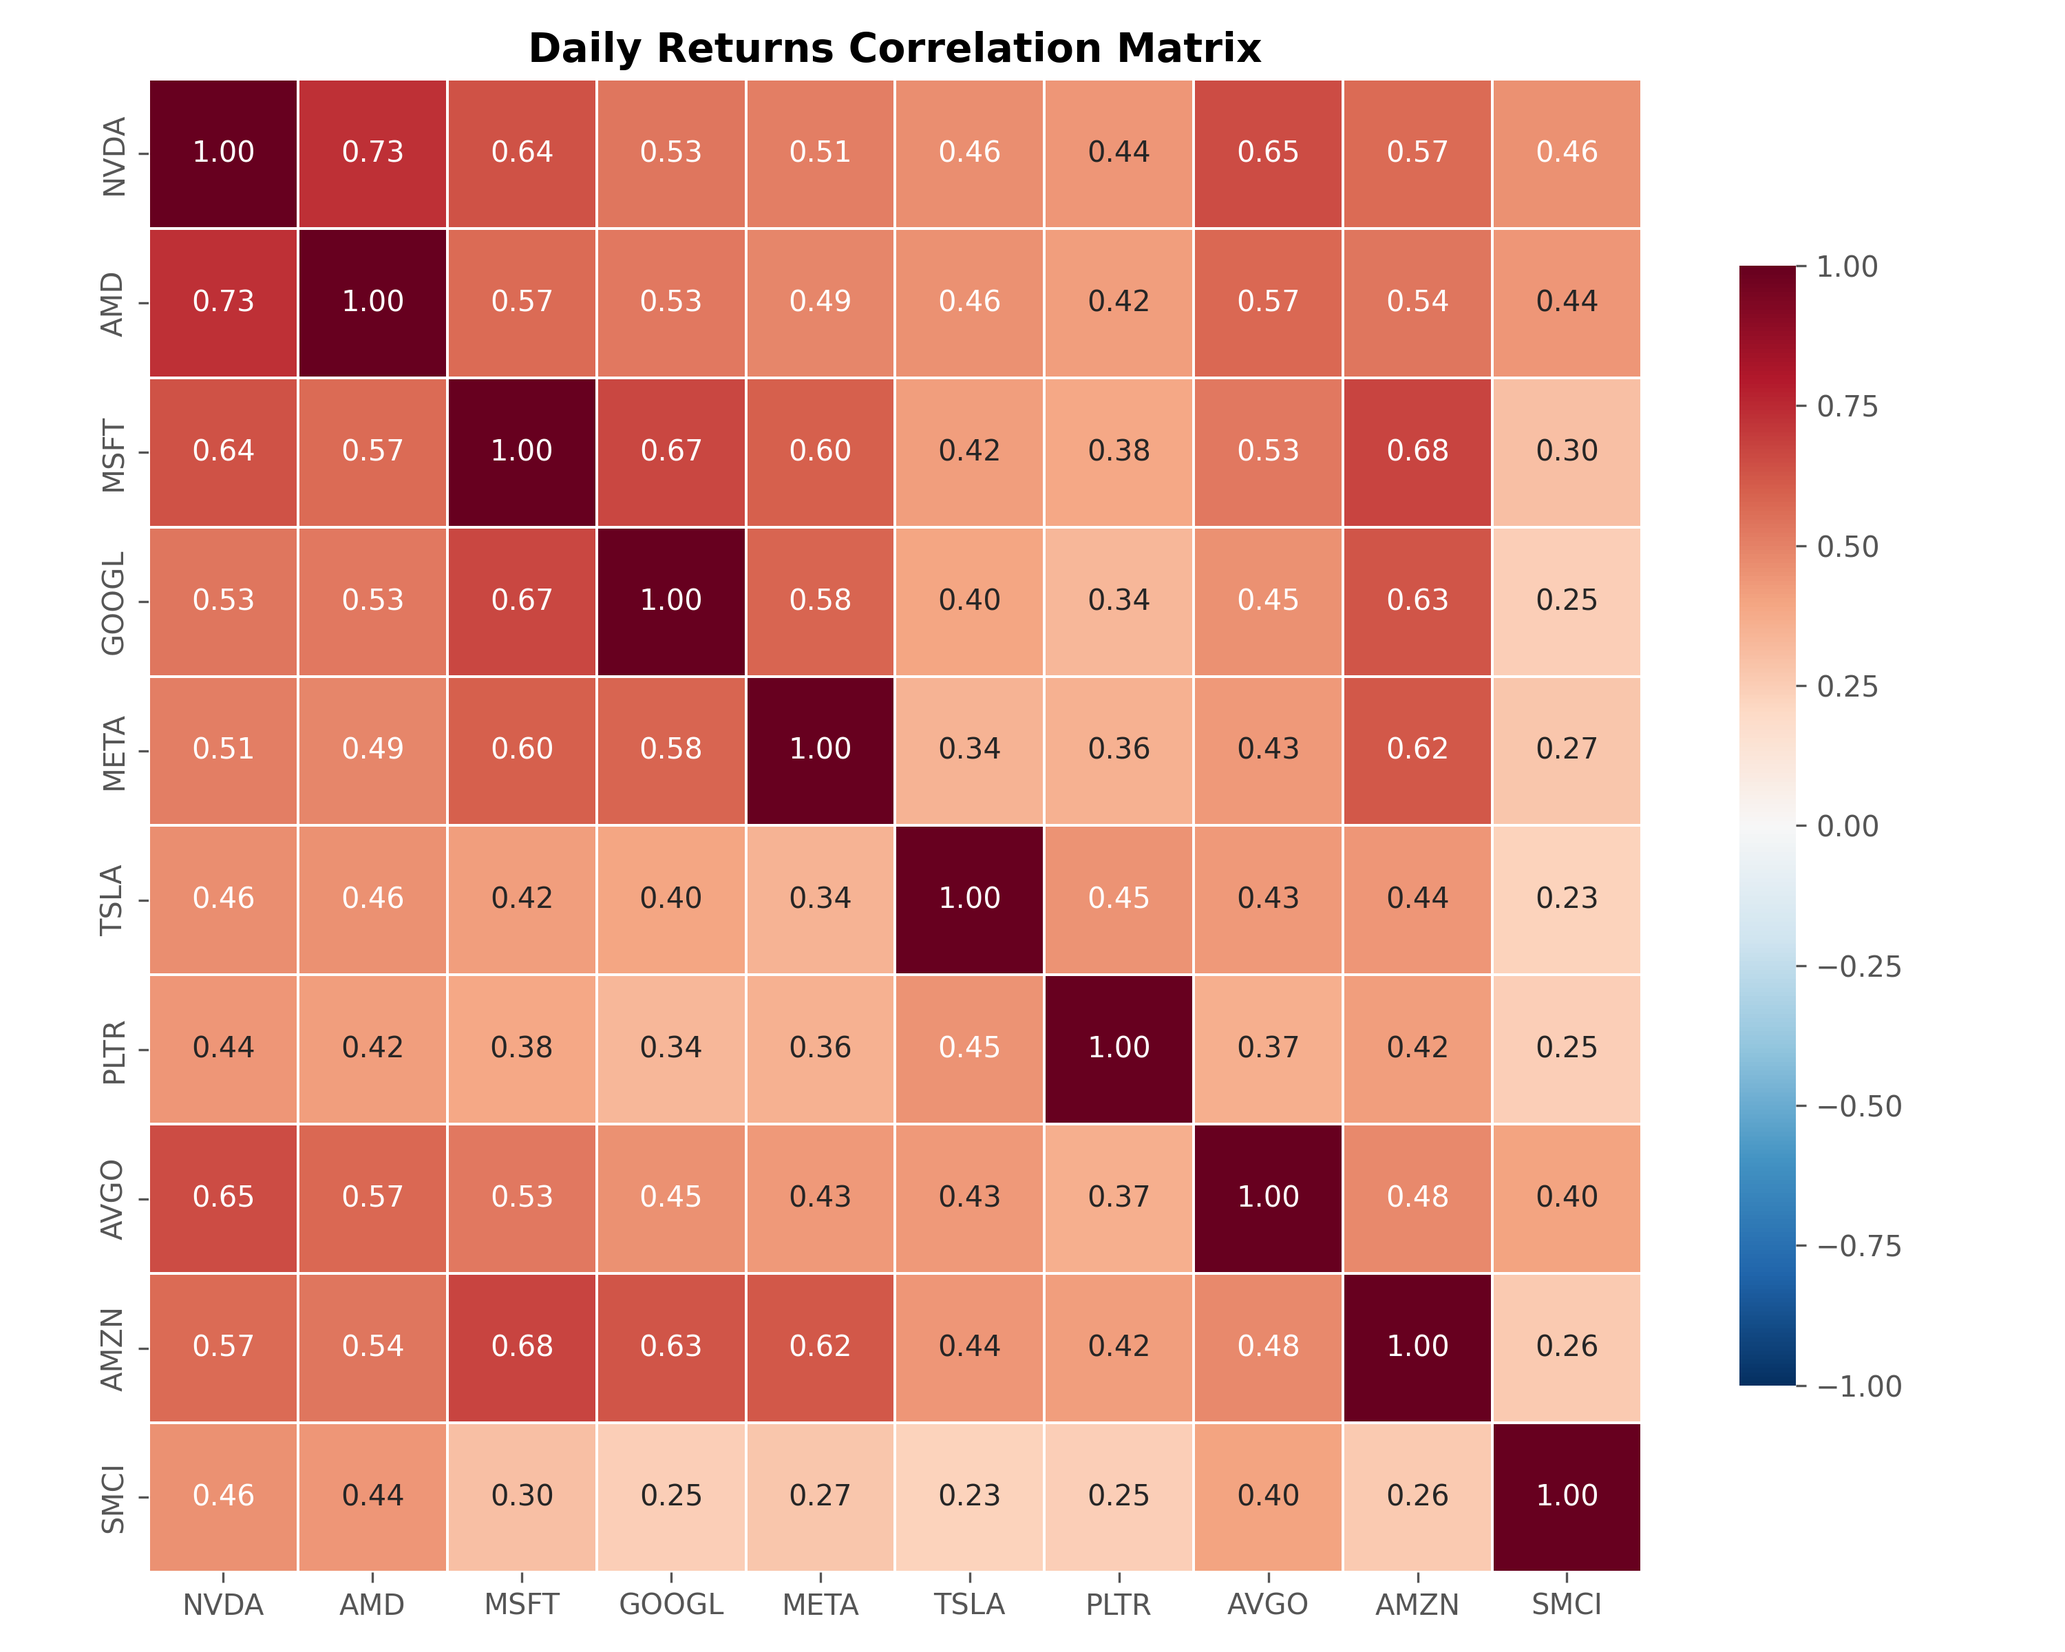
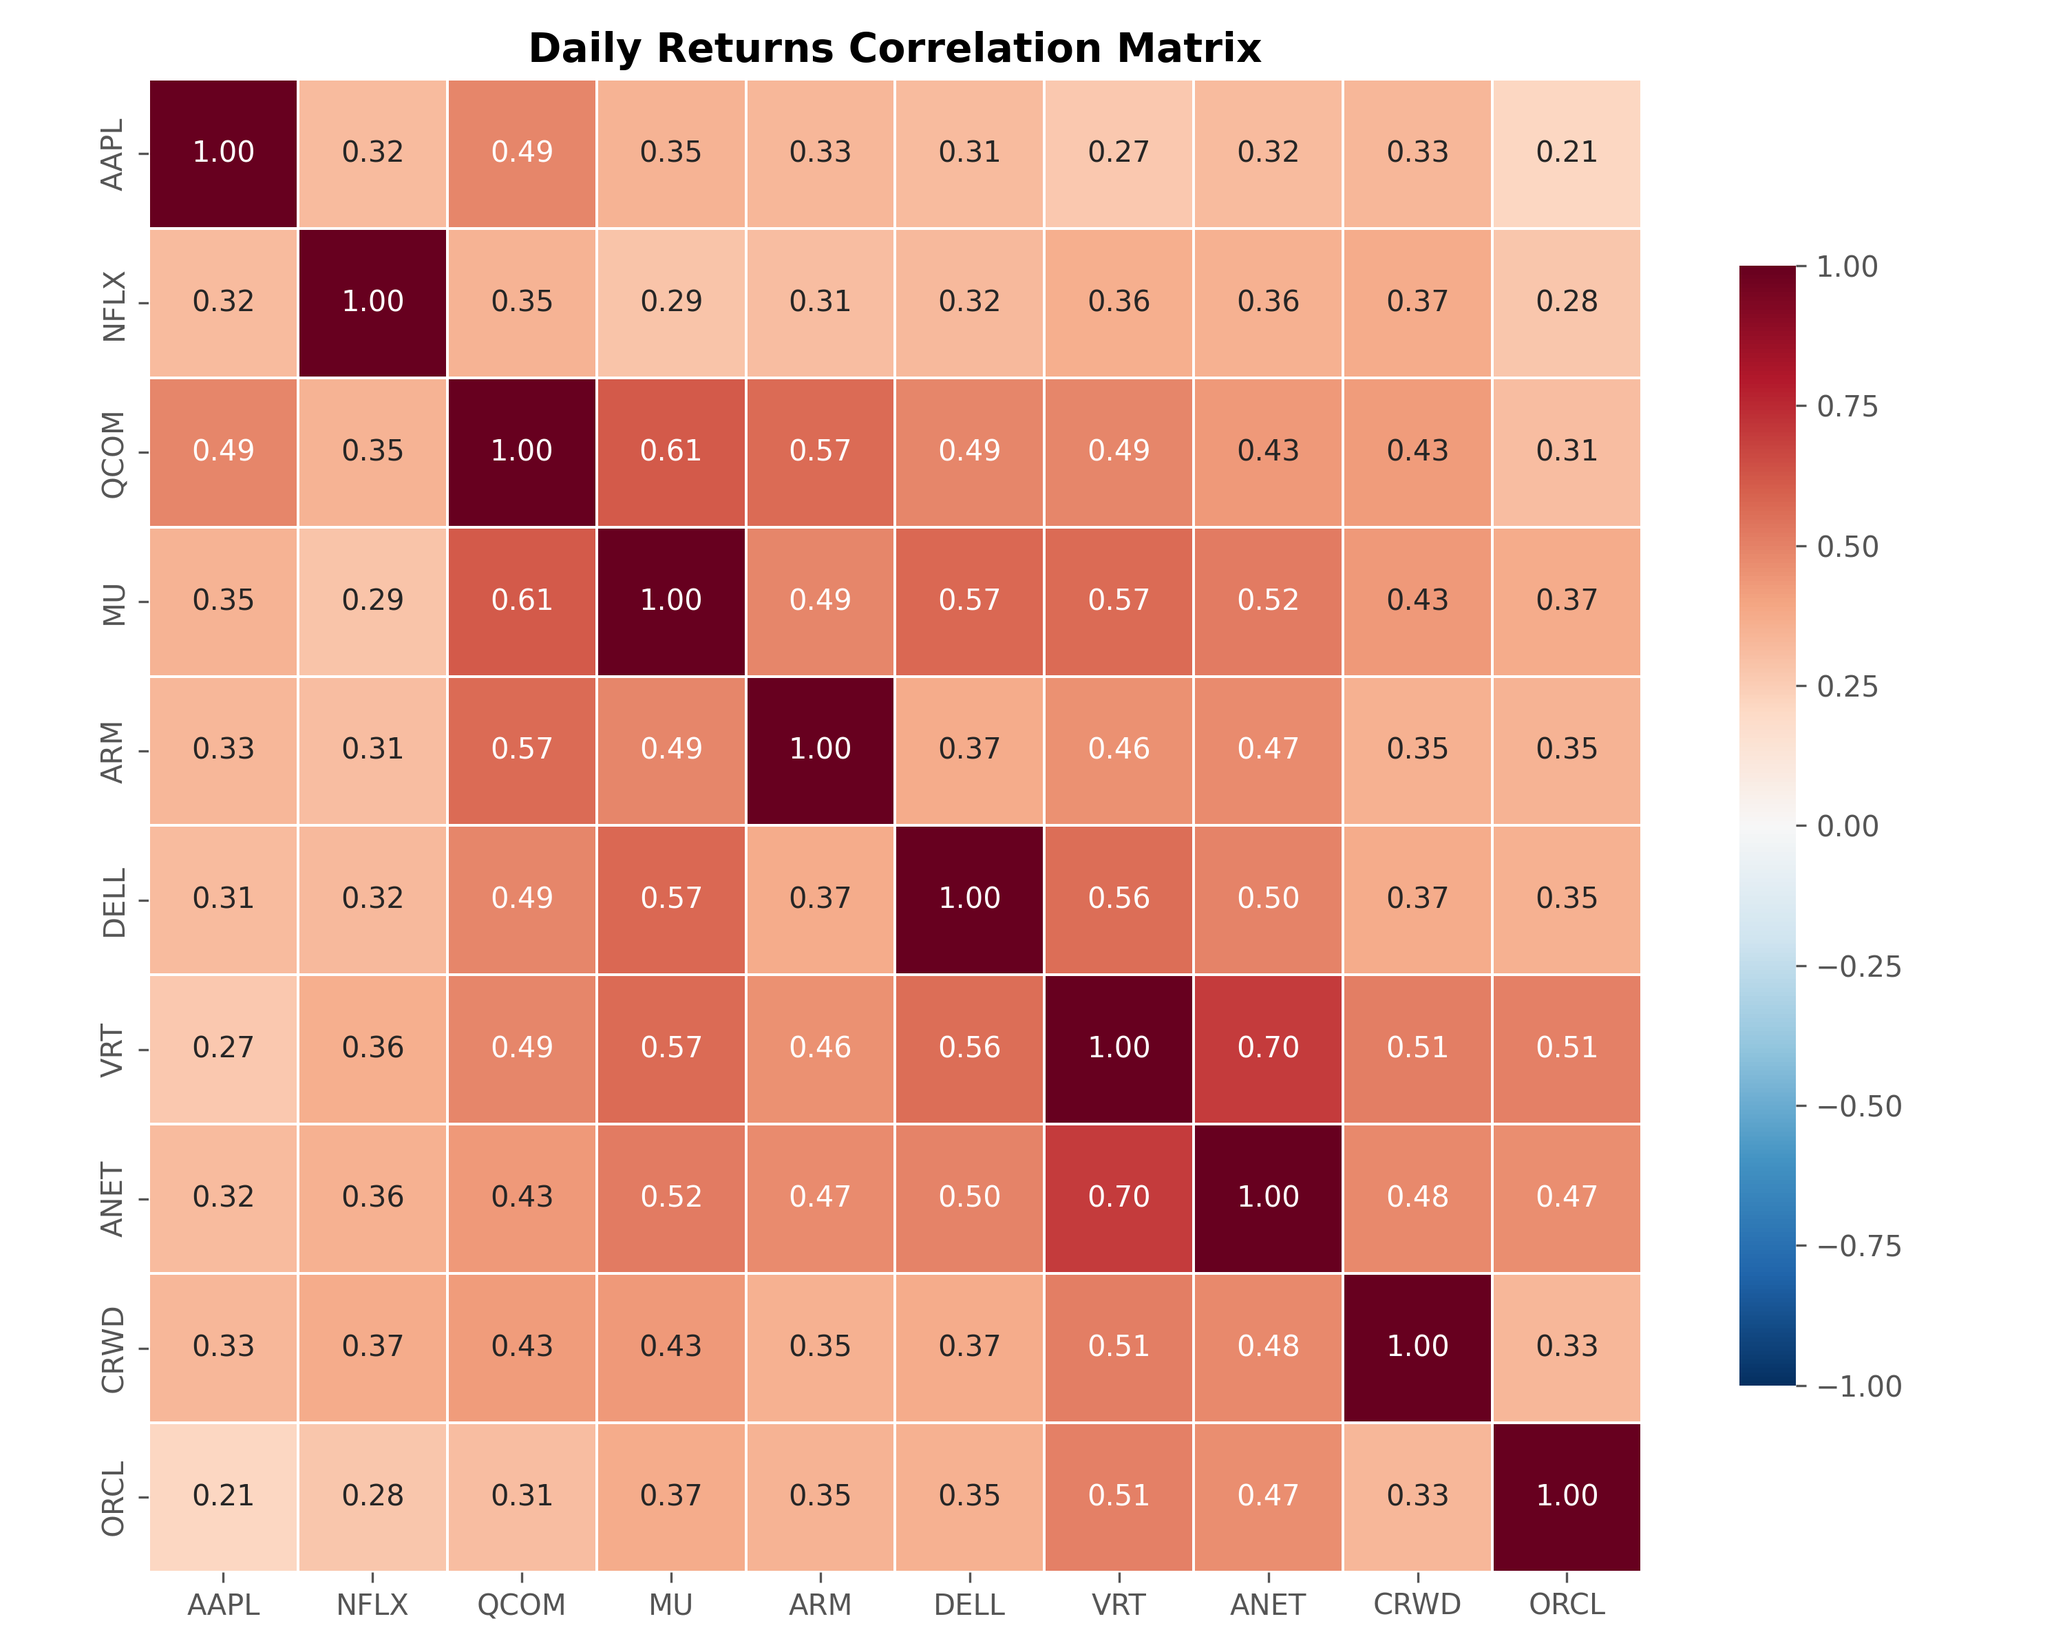
add files

diff --git a/MIDTERM_PROJECTS/strategy/backtest.py b/MIDTERM_PROJECTS/strategy/backtest.py
@@ -4,77 +4,91 @@ from MIDTERM_PROJECTS.strategy.signals import (check_entry_signal,check_exit_sig
 from MIDTERM_PROJECTS.strategy.indicators import add_indicators
 
 
-def run_single_backtest(df, fund=1000, rsi_buy=40, trailing_stop=0.10): # instead stop_loss = 0.07
+def run_single_backtest(df, fund=1000, rsi_buy=40, rsi_sell=75, trailing_stop=0.10):
     """
-    Simulates trading on a single asset.
-    Updated to support Hyperparameter Tuning via arguments.
+    Simulates the trading strategy on a single asset using Trailing Stop logic.
 
     Args:
-        df (pd.DataFrame): Data with indicators.
+        df (pd.DataFrame): Historical data.
         fund (float): Initial capital.
-        rsi_buy (int): RSI threshold for entry (Default: 40).
-        trailing_stop (float) : (Default: 10).
+        rsi_buy (int): RSI threshold for entry (Optimization parameter).
+        trailing_stop (float): Trailing stop percentage (Optimization parameter).
+
+    Returns:
+        pd.Series: Daily equity values over time.
     """
+    # 1. Calculate Technical Indicators
     df = add_indicators(df)
+
+    # 2. Initialize Portfolio State
     cash = fund
     stock = 0
-    highest_price = 0  # Track peak price
+    highest_price = 0  # Tracks the peak price for Trailing Stop
     equity = []
 
+    # 3. Simulation Loop
     for index, row in df.iterrows():
         price = row['close']
         ema = row.get('EMA_200')
         rsi = row.get('RSI')
 
-        # BUY Logic
-        if stock == 0 and not pd.isna(ema) and not pd.isna(rsi):
-            if price > ema and rsi < rsi_buy:
-                stock = cash / price
+        # --- ENTRY LOGIC (BUY) ---
+        if stock == 0:
+            if check_entry_signal(price, ema, rsi, rsi_threshold=rsi_buy):
+                stock = cash / price  # Buy All-in
                 cash = 0
-                highest_price = price  # Initialize peak
+                highest_price = price  # Initialize peak price at entry
 
-        # SELL Logic (Trailing Stop)
+        # --- EXIT LOGIC (SELL) ---
         elif stock > 0:
+            # Update the highest price seen during the trade
             if price > highest_price:
-                highest_price = price  # Update peak
+                highest_price = price
 
-            stop_price = highest_price * (1 - trailing_stop)
-
-            if (rsi > 75) or (price < stop_price):
-                cash = stock * price
+            # Check exit conditions (Take Profit or Trailing Stop)
+            if check_exit_signal(price, rsi, highest_price,
+                                 trailing_stop_pct=trailing_stop,
+                                 rsi_sell_threshold=rsi_sell):
+                cash = stock * price  # Liquidate position
                 stock = 0
-                highest_price = 0
+                highest_price = 0  # Reset peak
 
-        equity.append(cash + (stock * price))
+        # --- MARK TO MARKET ---
+        # Calculate total asset value for the day
+        current_equity = cash + (stock * price)
+        equity.append(current_equity)
 
+    # Return the Equity Curve aligned with dates
     return pd.Series(equity, index=df.index[-len(equity):])
 
 
 def run_portfolio_backtest(data_dict, capital_per_stock=1000):
     """
-    Runs the backtest simulation for the entire portfolio.
+    Executes the backtest across the entire portfolio.
+
+    Args:
+        data_dict (dict): Dictionary of DataFrames {Ticker: Data}.
+        capital_per_stock (float): Capital allocated to each asset.
 
     Returns:
-        pd.DataFrame: Contains equity curves for individual assets and the 'TOTAL' portfolio.
+        pd.DataFrame: Equity curves for individual assets and the 'TOTAL' portfolio.
     """
     portfolio_equity = pd.DataFrame()
-
-    print(f"-> Starting simulation on {len(data_dict)} assets...")
+    print(f">> Executing Strategy (RSI < 40, Trailing Stop Mode)...")
 
     for ticker, df in data_dict.items():
         if df.empty: continue
+
         try:
-            # Run independent simulation for each stock
-            equity = run_single_backtest(df, capital_per_stock)
-            portfolio_equity[ticker] = equity
+            # Run simulation for the specific ticker
+            # Note: You can pass optimized parameters here if needed
+            result = run_single_backtest(df, fund=capital_per_stock)
+            portfolio_equity[ticker] = result
         except Exception as e:
-            print(f"Simulation failed for {ticker}: {e}")
+            print(f"Error backtesting {ticker}: {e}")
 
-    # Handle missing data (Forward Fill) to ensure summation works
-    portfolio_equity = portfolio_equity.fillna(capital_per_stock)
-
-    # Calculate Total Portfolio Value
+    # Handle missing data (Forward Fill) and sum up the portfolio
+    portfolio_equity = portfolio_equity.ffill().fillna(capital_per_stock)
     portfolio_equity['TOTAL'] = portfolio_equity.sum(axis=1)
 
-    print("-> Simulation completed.")
     return portfolio_equity

diff --git a/MIDTERM_PROJECTS/optimizer/optimization.py b/MIDTERM_PROJECTS/optimizer/optimization.py
@@ -16,63 +16,58 @@ def calculate_sharpe(equity_series):
     return (ret.mean() / ret.std()) * np.sqrt(252)
 
 
+
 def run_grid_search(data_dict):
-    """
-    Grid Search for Trailing Stop Optimization.
-    """
-    print("\n" + "=" * 60)
-    print("GRID SEARCH: TRAILING STOP OPTIMIZATION (80/20 SPLIT)")
-    print("=" * 60)
+    print("\n" + "=" * 80)
+    print("FULL GRID SEARCH: RSI BUY/SELL & TRAILING STOP")
+    print("=" * 80)
 
-    # Grid Parameters
-    rsi_options = [30, 35, 40]
-    trail_options = [0.05, 0.08, 0.10, 0.12, 0.15]  # 5% to 15%
+    rsi_buy_options = [30, 35, 40]
+    rsi_sell_options = [70, 75, 80]
+    trail_options = [0.10, 0.12, 0.15]
 
-    print(f"{'RSI':<5} | {'TRAIL':<6} | {'TRAIN SHARPE':<12} | {'TEST SHARPE':<12} | {'STATUS'}")
-    print("-" * 60)
+    print(f"{'BUY':<4} | {'SELL':<4} | {'TRAIL':<5} | {'TRAIN SHARPE':<12} | {'TEST SHARPE':<12} | {'STATUS'}")
+    print("-" * 70)
 
     best_score = -999
     best_params = None
 
-    for rsi in rsi_options:
-        for trail in trail_options:
-            train_scores, test_scores = [], []
+    for r_buy in rsi_buy_options:
+        for r_sell in rsi_sell_options:
+            for trail in trail_options:
 
-            for ticker, df in data_dict.items():
-                if len(df) < 100: continue
-                train, test = split_data(df)
+                if r_buy >= r_sell: continue
 
-                # Run Backtest
-                res_train = run_single_backtest(train, rsi_buy=rsi, trailing_stop=trail)
-                res_test = run_single_backtest(test, rsi_buy=rsi, trailing_stop=trail)
+                train_scores, test_scores = [], []
 
-                train_scores.append(calculate_sharpe(res_train))
-                test_scores.append(calculate_sharpe(res_test))
+                for ticker, df in data_dict.items():
+                    if len(df) < 100: continue
+                    train, test = split_data(df)
 
-            avg_train = np.mean(train_scores) if train_scores else 0
-            avg_test = np.mean(test_scores) if test_scores else 0
+                    res_train = run_single_backtest(train, rsi_buy=r_buy, rsi_sell=r_sell, trailing_stop=trail)
+                    res_test = run_single_backtest(test, rsi_buy=r_buy, rsi_sell=r_sell, trailing_stop=trail)
 
-            # Robustness Check
-            status = "OK"
-            if avg_train > 1.5 and avg_test < 0.5:
-                status = "OVERFIT"
-            elif avg_test < 0:
-                status = "LOSS"
+                    train_scores.append(calculate_sharpe(res_train))
+                    test_scores.append(calculate_sharpe(res_test))
 
-            print(f"{rsi:<5} | {trail * 100:<4.0f}% | {avg_train:<12.2f} | {avg_test:<12.2f} | {status}")
+                avg_train = np.mean(train_scores) if train_scores else 0
+                avg_test = np.mean(test_scores) if test_scores else 0
 
-            if avg_train > best_score and avg_test > 0.5:
-                best_score = avg_train
-                best_params = (rsi, trail)
+                status = "OVERFIT" if (avg_train > 1.2 and avg_test > 0.5) else "OK"
+                print(
+                    f"{r_buy:<4} | {r_sell:<4} | {trail * 100:<3.0f}%  | {avg_train:<12.2f} | {avg_test:<12.2f} | {status}")
 
-    print("-" * 60)
+                if avg_train > best_score and avg_test > 0.5:
+                    best_score = avg_train
+                    best_params = (r_buy, r_sell, trail)
+
+    print("-" * 70)
     if best_params:
-        print(f"RECOMMENDED: RSI={best_params[0]}, TRAILING_STOP={best_params[1]}")
-    else:
-        print("RECOMMENDED: Default Settings (No robust params found).")
+        print(f"RECOMMENDED: RSI_BUY={best_params[0]}, RSI_SELL={best_params[1]}, TRAILING={best_params[2]}")
 
 from MIDTERM_PROJECTS.data.clean_data import clean_data
 
+# TICKERS = ['AAPL', 'NFLX', 'QCOM', 'MU', 'ARM', 'DELL', 'VRT', 'ANET', 'CRWD', 'ORCL']
 TICKERS = ['NVDA', 'AMD', 'MSFT', 'GOOGL', 'META', 'TSLA', 'PLTR', 'AVGO', 'AMZN', 'SMCI']
 START = '2015-01-01'
 END = '2025-10-01'

diff --git a/MIDTERM_PROJECTS/strategy/signals.py b/MIDTERM_PROJECTS/strategy/signals.py
@@ -1,47 +1,55 @@
-# --- STRATEGY CONFIGURATION ---
-RSI_OVERSOLD = 40  # Entry Threshold (Buy on Pullback)
-RSI_OVERBOUGHT = 75  # Exit Threshold (Take Profit)
-STOP_LOSS_PCT = 0.07  # Hard Stop Loss (7%)
+import pandas as pd
 
 
-def check_entry_signal(price, ema, rsi):
+def check_entry_signal(price, ema, rsi, rsi_threshold=40):
     """
-    Checks conditions for a LONG entry.
+    Evaluates conditions for opening a LONG position.
 
-    Strategy Logic: Trend Following + Mean Reversion Pullback
-    1. Trend: Price must be above EMA 200.
-    2. Setup: RSI must be below 40 (Short-term oversold).
+    Strategy: Trend Following + Mean Reversion
+    1. Trend Filter: Price must be above EMA 200 (Long-term Uptrend).
+    2. Entry Trigger: RSI must be below the threshold (Buying the dip).
+
+    Args:
+        price (float): Current closing price.
+        ema (float): Current EMA 200 value.
+        rsi (float): Current RSI 14 value.
+        rsi_threshold (int): The RSI level to trigger a buy (default: 40).
 
     Returns:
-        bool: True if entry conditions are met.
+        bool: True if entry conditions are met, otherwise False.
     """
-    # Validation: Ensure indicators exist
-    if price is None or ema is None or rsi is None:
+    # Validation: Ensure indicators are not NaN
+    if pd.isna(ema) or pd.isna(rsi):
         return False
 
     is_uptrend = price > ema
-    is_pullback = rsi < RSI_OVERSOLD
+    is_pullback = rsi < rsi_threshold
 
     return is_uptrend and is_pullback
 
 
-def check_exit_signal(price, rsi, entry_price):
+def check_exit_signal(price, rsi, highest_price, trailing_stop_pct=0.10, rsi_sell_threshold=75):
     """
-    Checks conditions for closing a position.
+    Evaluates conditions for closing a position.
 
     Exit Logic:
-    1. Take Profit: RSI becomes overbought (> 75).
-    2. Stop Loss: Price drops 7% below entry price.
+    1. Take Profit: RSI becomes Overbought (> 75).
+    2. Trailing Stop: Price drops by a specific percentage from the highest peak.
+
+    Args:
+        price (float): Current closing price.
+        rsi (float): Current RSI 14 value.
+        highest_price (float): The highest price reached since entry.
+        trailing_stop_pct (float): Percentage drop to trigger exit (e.g., 0.10 for 10%).
 
     Returns:
         bool: True if exit conditions are met.
     """
-    if entry_price == 0: return False
+    # 1. Take Profit (Momentum is overheated)
+    take_profit = rsi > rsi_sell_threshold
 
-    # 1. Take Profit (RSI Overheated)
-    take_profit = rsi > RSI_OVERBOUGHT
+    # 2. Trailing Stop (Protect profits / Limit downside)
+    stop_price = highest_price * (1 - trailing_stop_pct)
+    hit_trailing_stop = price < stop_price
 
-    # 2. Stop Loss (Risk Management)
-    stop_loss = price < entry_price * (1 - STOP_LOSS_PCT)
-
-    return take_profit or stop_loss
+    return take_profit or hit_trailing_stop

diff --git a/MIDTERM_PROJECTS/main/main.py b/MIDTERM_PROJECTS/main/main.py
@@ -11,6 +11,7 @@ import os
 
 # --- CONFIGURATION ---
 # Thematic Portfolio: "AI & High Growth"
+# TICKERS = ['AAPL', 'NFLX', 'QCOM', 'MU', 'ARM', 'DELL', 'VRT', 'ANET', 'CRWD', 'ORCL']
 TICKERS = ['NVDA', 'AMD', 'MSFT', 'GOOGL', 'META', 'TSLA', 'PLTR', 'AVGO', 'AMZN', 'SMCI']
 START_DATE = '2015-01-01'
 END_DATE = '2025-10-01'
@@ -21,9 +22,6 @@ os.makedirs(IMAGE_DIR, exist_ok=True)
 
 
 def main():
-    """
-    Main execution pipeline for the AI Portfolio Project.
-    """
 
     # --- STEP 1: DATA ACQUISITION ---
     print("\n" + "=" * 50)
@@ -53,8 +51,6 @@ def main():
     print("\n" + "=" * 50)
     print("STEP 3: RUNNING STRATEGY SIMULATION")
     print("=" * 50)
-
-    # --- TRONG FILE main.py (STEP 3) ---
 
     portfolio_results = run_portfolio_backtest(data_dict)
 

diff --git a/MIDTERM_PROJECTS/data/clean_data.py b/MIDTERM_PROJECTS/data/clean_data.py
@@ -1,7 +1,7 @@
 import yfinance as yf
 import pandas as pd
 import numpy as np
-
+import os
 
 def clean_data(tickers, start_date, end_date):
     """
@@ -103,3 +103,18 @@ def clean_data(tickers, start_date, end_date):
             print(f"Error processing {ticker}: {e}")
 
     return processed_data
+
+
+def save_data(data_dict):
+    folder_name = 'cleaned data'
+    os.makedirs(folder_name, exist_ok=True)
+
+    for ticker, df in data_dict.items():
+        file_path = os.path.join(folder_name, f"{ticker}.csv")
+        df.to_csv(file_path)
+
+my_tickers = ['NVDA', 'AMD', 'MSFT', 'GOOGL', 'META', 'TSLA', 'PLTR', 'AVGO', 'AMZN', 'SMCI']
+start = '2015-01-01'
+end = '2025-10-01'
+cleaned_results = clean_data(my_tickers, start, end)
+save_data(cleaned_results)
